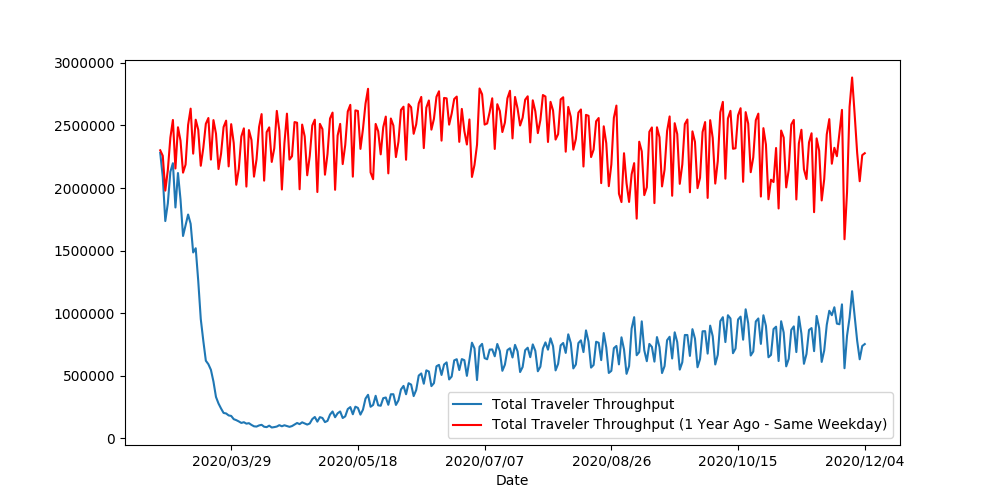
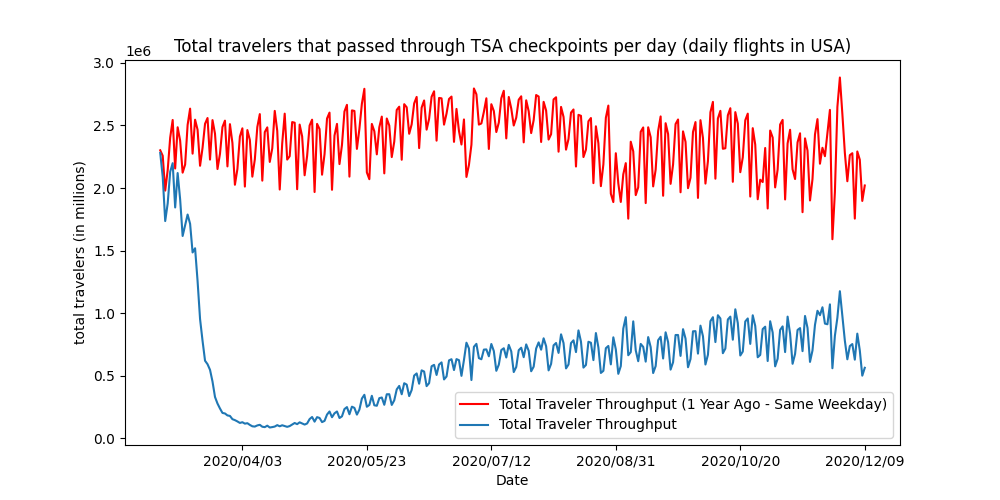
add updated tsa plot

diff --git a/tsa_throughput/tsa_throughput.py b/tsa_throughput/tsa_throughput.py
@@ -66,9 +66,13 @@ ax = plt.gca()
 
 ax.invert_xaxis()
 
-df.plot(kind='line', x=df.columns[0], y=df.columns[1], ax=ax)
 df.plot(kind='line', x=df.columns[0], y=df.columns[2], color='red', ax=ax)
+df.plot(kind='line', x=df.columns[0], y=df.columns[1], ax=ax)
+
+plt.title('Total travelers that passed through TSA checkpoints per day (daily flights in USA)')
+plt.ylabel('total travelers (in millions)')
 
 plt.savefig('tsa_plot_new.png')
+plt.show()
 
 df.to_csv(f'tsa_data/tsa_data_{date.today()}.csv')
